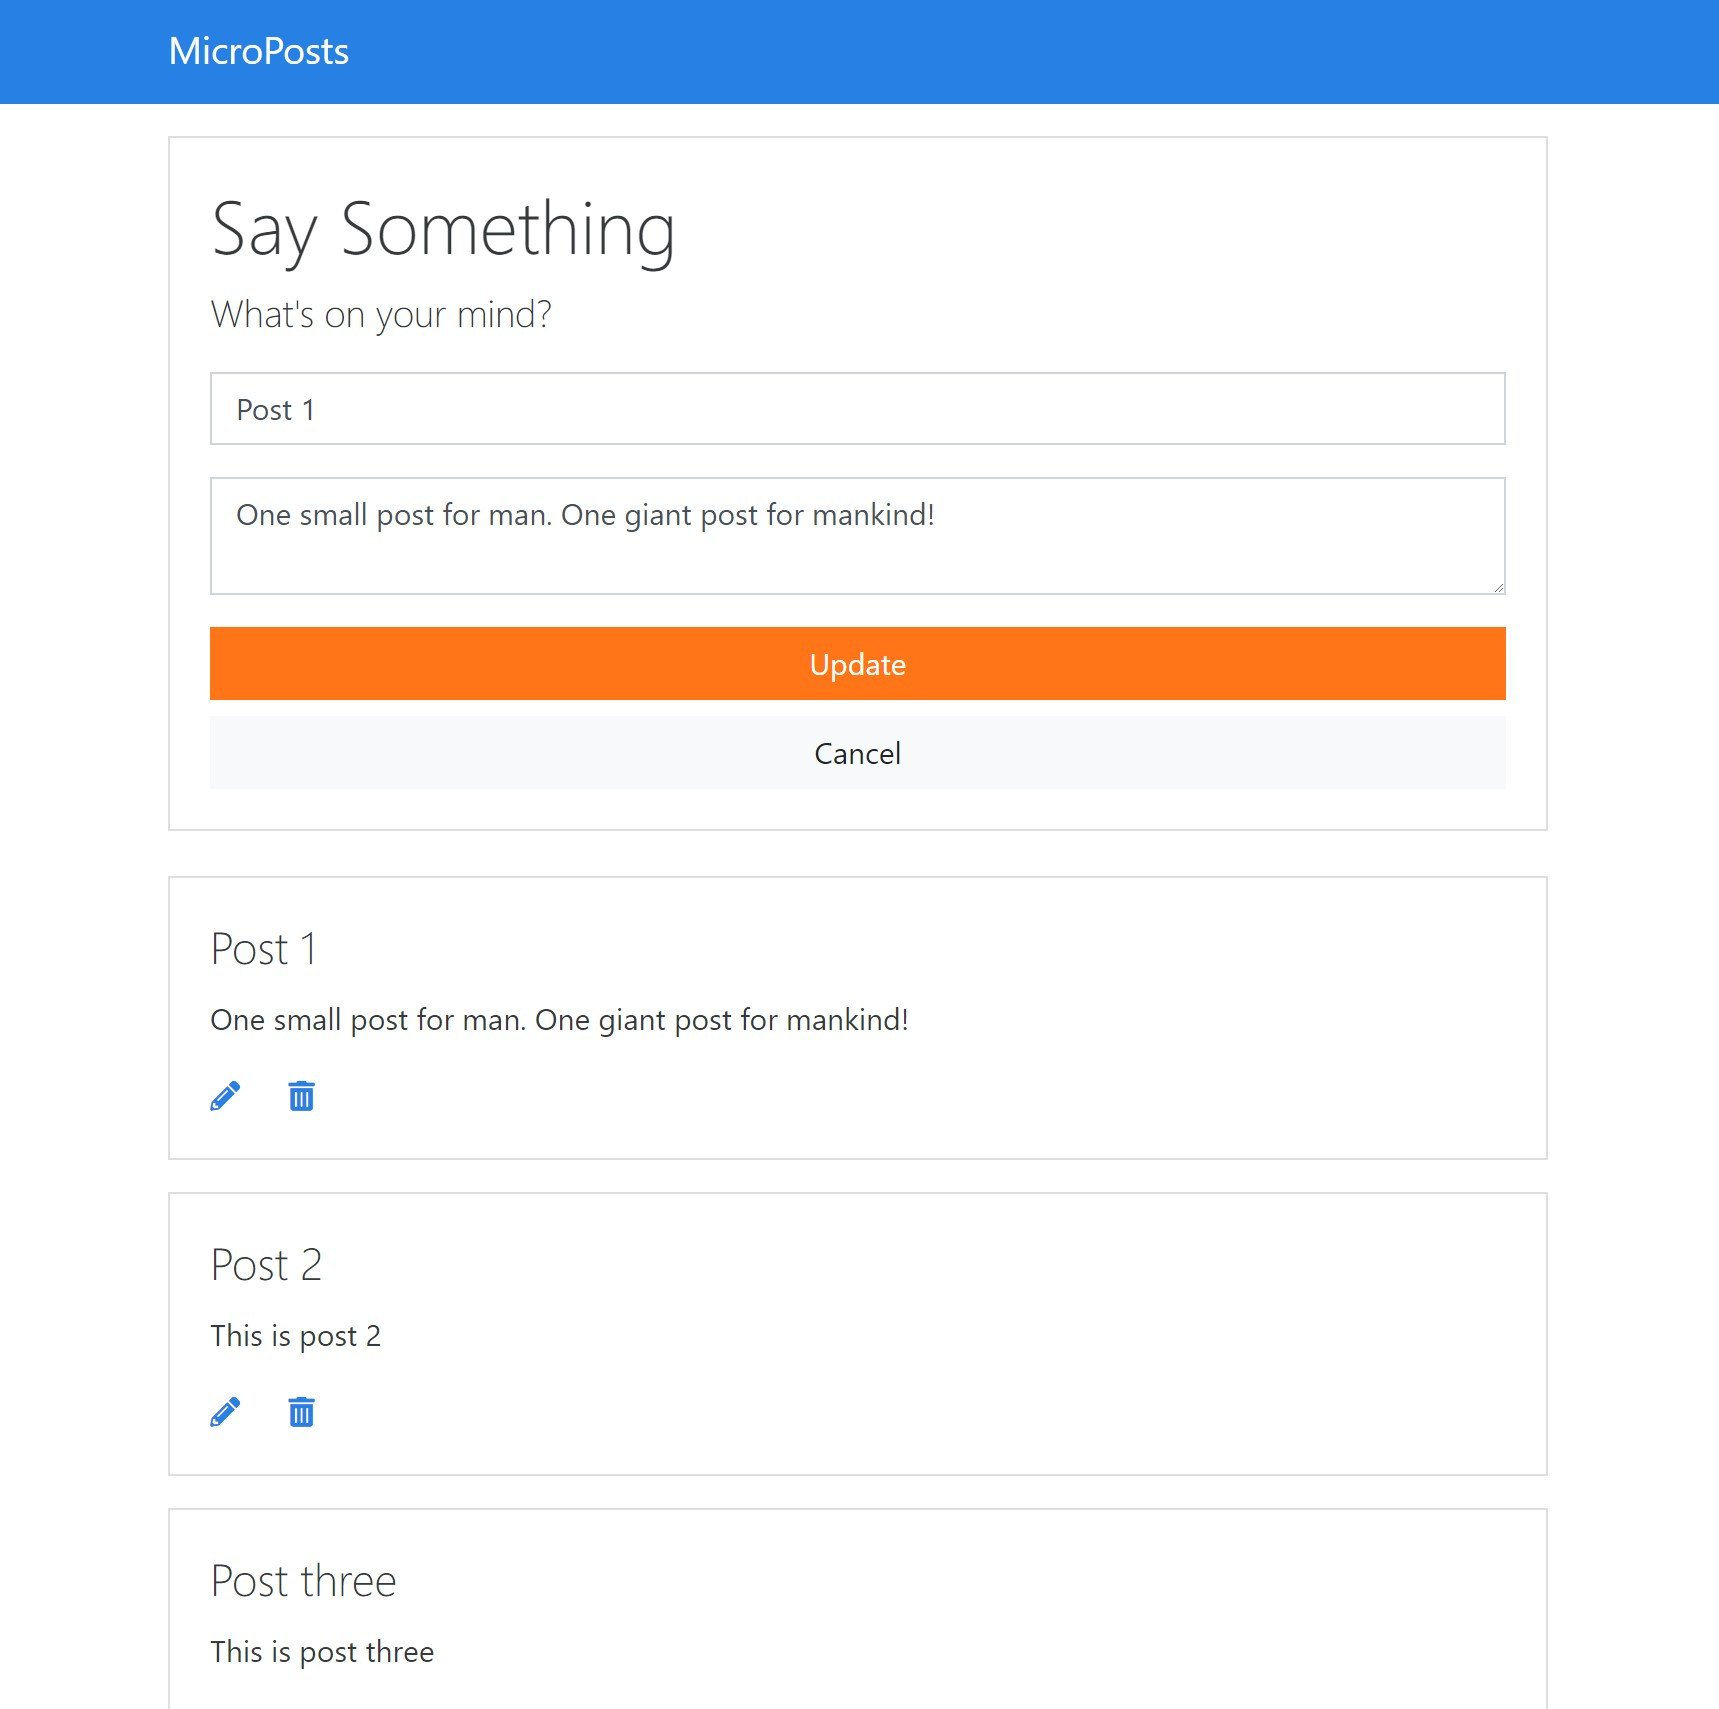
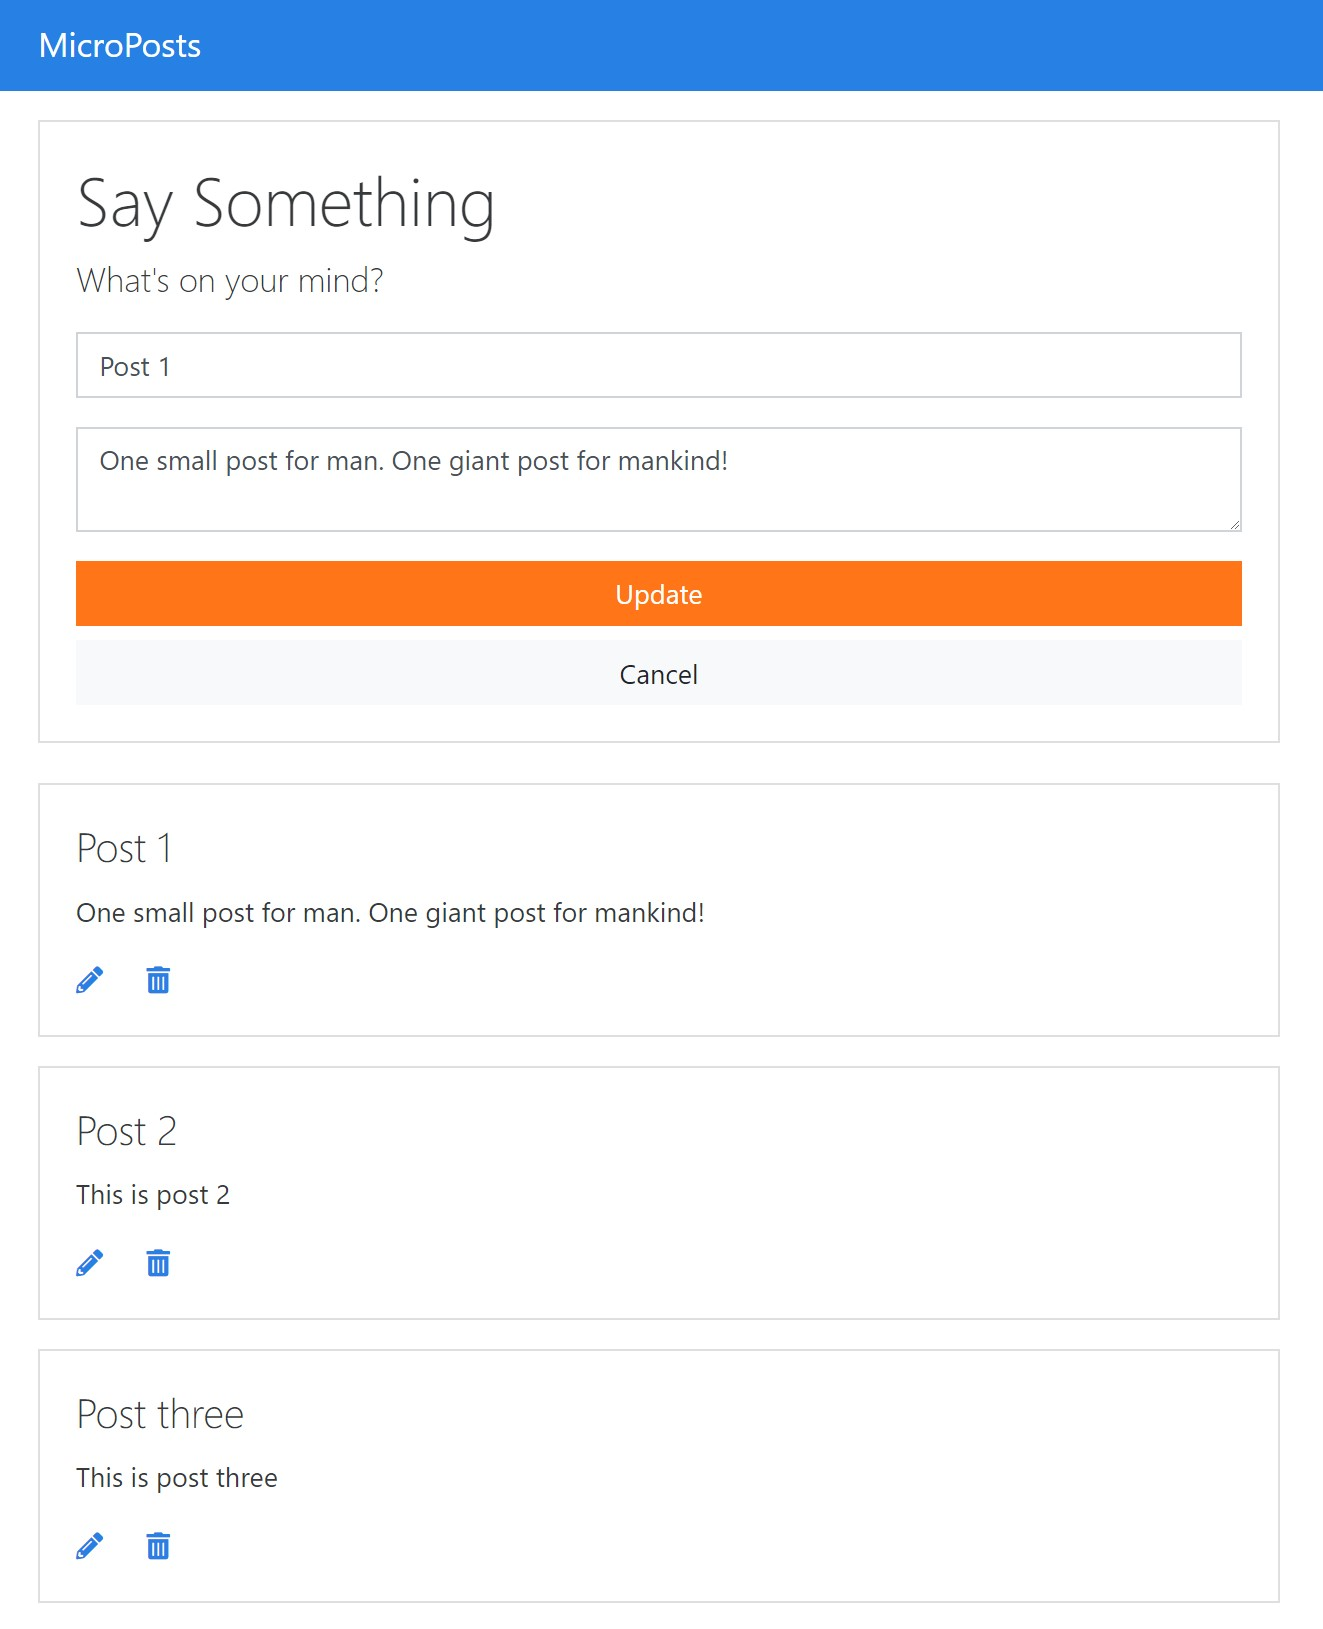
new images

diff --git a/README.md b/README.md
@@ -1,10 +1,10 @@
 This application utilizes Babel Webpack Starter to compile the JS modules into a single executable. JSON Server is used to simulate a full REST API. 
 
 ## Home
-<img src="https://raw.githubusercontent.com/justckim/microposts/master/screens/img1.jpg" width=800>
+<img src="https://raw.githubusercontent.com/justckim/microposts/master/screens/img1.jpg" width=650>
 
 ## Edit Posts
-<img src="https://raw.githubusercontent.com/justckim/microposts/master/screens/img2.jpg" width=800>
+<img src="https://raw.githubusercontent.com/justckim/microposts/master/screens/img2.jpg" width=650>
 
 # Babel Webpack Starter
 
